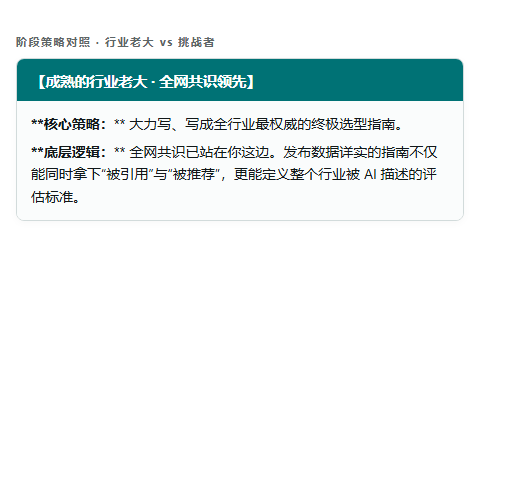
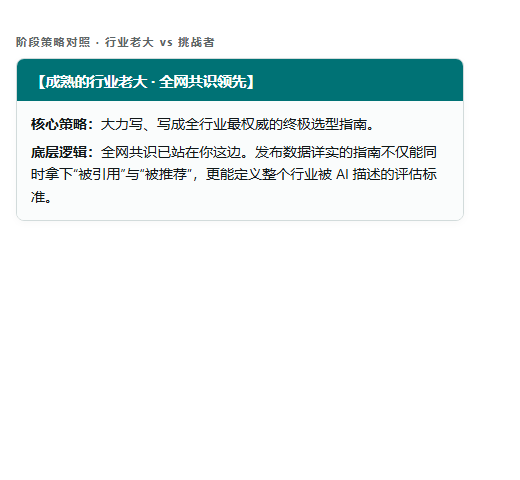
fix: 修复键值解析残留双星号BUG，重新跑图，并按极简风格重构README

Changed region(s): [[0.0615, 0.2188, 0.8615, 0.4375]]

diff --git a/README.md b/README.md
@@ -1,332 +1,72 @@
 # wechat-article-publisher
 
-简体中文 | [English](./README.en.md)
-
-写微信公众号文章最烦的几件事：Markdown 粘进去格式全乱、想做个折叠块微信又不支持 JS、每次发文都要打开设计软件给头图加标题、改个错别字重传草稿箱又多出一堆冗余草稿。
-
-这个工具专门解决这些琐事。**你只管写纯 Markdown**，剩下的交给它：从纯内联 HTML 转换、双层 SVG 半透明渐隐折叠、自动化杂志级 2.35:1 高清头图合成与 1:1 智能安全区裁切，到微信草稿箱的原地幂等更新。
+写微信公众号文章最烦的几件事：格式粘进去全乱、折叠块微信不支持 JS、改个错别字草稿箱又多一份重复草稿。这个工具就是给 AI Agent 准备的微信公众号发布利器。
 
 ---
 
-## 语法组件真实案例库 (Components Showcase)
+## 核心功能
 
-> **语法组件是整个发布体系的核心灵魂。**  
-> 以下全部案例均摘自真实深度专著《给决策者的 GEO 运营指南》实战语料（以 `shxuk.cn` 博客与公众号真实推文为范本）。每一个组件均针对手机端（390px~430px）微调行距与内边距，百分百防崩塌。
+### 功能一：文字丢给 AI，直发微信草稿箱
 
-### 1. 刊头导读条 (`::: kicker`) 与 结论先行区 (`::: lead`)
-文首第一屏黄金位置，固定直出系列刊号、AI 自然语言搜索导流语与全章核心判断（「字多不看」）：
+把写好的文字复制给豆包、Cursor、Antigravity 或任何 AI 工具，AI 会调用此工具直接完成图文内联渲染，并一键推送到微信公众号的草稿箱，多次推送同一篇自动原地覆盖，绝不产生重复垃圾草稿。
 
-```markdown
-::: kicker 给决策者的 GEO 运营指南 · CH. 1/7 | AI搜索我的博客：shxuk.cn让AI帮你总结全文 :::
+> **微信后台配置注意**：需要在「微信公众平台」->「设置与开发」->「基本配置」中获取 `AppID` 和 `AppSecret`，并务必将你当前机器的外网出口 IP 添加到 **IP 白名单** 中，否则微信接口会拦截报错。
 
-::: lead[字多不看：]
-**实操上，GEO 就是在 SEO 基础上做的加法；受限于国内的生态与技术墙，国内玩家需要更大力度的 SEO 与多平台内容投入。将自有独立站点（如 shxuk.cn）转变为结构化事实库，打通从信源收录到认知推荐的信任链条。**
-:::
-```
+---
+
+### 功能二：告别丑排版，让 AI 基于丰富组件自由发挥
+
+你依然只管专注写文章内容。把这个仓库授权给 AI 后，告诉 AI“帮我按组件排版”，它就会自动将你的内容组织成杂志风的专业版式：
 
 <div align="center">
-  <img src="./assets/components/01-kicker-lead.png" alt="刊头导读条与结论先行区" width="500" style="border-radius: 6px; box-shadow: 0 4px 16px rgba(0,0,0,0.08);" />
+  <img src="./assets/preview-components.png" alt="编辑部风 2.0 组件实测" width="460" />
 </div>
 
----
+内置组件一览：
+- **刊头与导语** (`kicker` / `lead`)：栏目名、AI 搜索导引与文首结论先行（字多不看）。
+- **四色标准提示块** (`TIP` / `NOTE` / `WARNING` / `IMPORTANT`)：克制耐看的深浅配色。
+- **大数字指标卡** (`metrics`)：移动端等宽自适应数据看板。
+- **双轨对照卡** (`versus`)：方案对比、竞品对比、优缺点清晰分栏。
+- **流程阶梯卡** (`steps`) 与 **档案卡** (`dossier`)：拯救手机端被挤压变形的大表格。
+- **金句判词** (`verdict`) 与 **问答组** (`qa`)：观点收口与一问一答 Q&A 模块。
+- **双层半透明 SVG 渐隐折叠** (`details`)：原生 SVG 折叠，露出前 3 行渐隐预览，点击展开，无微信弹窗。
+- **GitHub 引导卡** (`githubcard`) 与 **作者关注卡** (`follow`)：优雅展示项目与个人品牌。
 
-### 2. 四色标准提示块 (`TIP` / `NOTE` / `WARNING` / `IMPORTANT`)
-告别刺眼杂乱的彩色底色，使用克制的 3px 左竖线与 `#f5f7f7` 极简浅灰底：
-
-```markdown
-> TIP 团队认知基线
-> **传统 SEO（收录、权重、外链、搜索意图覆盖）是地基；**
-> **AI 搜索优化是在地基上面加盖的一层“高可提取结构 + 事实密度”。如果没有传统 SEO 托底，AI 搜索也无从谈起。**
-
-> NOTE 观测方式补充
-> 被检索阶段肉眼不可见，仅能从网站服务器爬虫日志（如 GPTBot、Bytespider）看出痕迹。
-
-> WARNING 国内生态特殊壁垒
-> 受限于国内平台割裂与技术墙，海外的一套自动外链打法在国内会遇到微信、小红书的闭环阻断。
-
-> IMPORTANT 核心底线
-> 无论大模型如何演进，强大的传统自然排名和域名权威度，依然是被 AI 引用的最强预测指标之一。
-```
-
-<div align="center">
-  <img src="./assets/components/00-callouts.png" alt="四色标准提示块" width="500" style="border-radius: 6px; box-shadow: 0 4px 16px rgba(0,0,0,0.08);" />
-</div>
+> **关于公众号头图**：目前项目内置了封面生成模板，但还在开发迭代中，现在看着有点丑，后续会进一步优化和稳定。
 
 ---
 
-### 3. 大数字指标看板 (`::: metrics`)
-针对手机端自适应列宽的等宽表格指标卡，用于突出权威统计数据与核心依据：
+## 如何安装与使用
 
-```markdown
-::: metrics[支撑数据 · 权威度与外链依然是 AI 引用的基本盘]
-~15% | Google AIO 首页重合下限 | 部分词集重合度低至 15%，第 2、3 页好内容有翻盘机会
-3.2万+ | ChatGPT 外链翻倍拐点 | SE Ranking 12.9 万域名研究，外链域名超 3.2 万引用几乎翻倍
-8.4 次 | 35 万+ 外链大站均引 | 超过 350,000 个外链的大站平均获得 8.4 次引用
-:::
-```
-
-<div align="center">
-  <img src="./assets/components/02-metrics.png" alt="大数字指标看板" width="500" style="border-radius: 6px; box-shadow: 0 4px 16px rgba(0,0,0,0.08);" />
-</div>
-
----
-
-### 4. 阶段双轨对照卡 (`::: versus`)
-左右/上下结构化对比，直观呈现选型差异、新旧范式或竞品策略：
-
-```markdown
-::: versus[阶段策略对照 · 行业老大 vs 挑战者]
-【成熟的行业老大 · 全网共识领先】
-**核心策略：** 大力写、写成全行业最权威的终极选型指南。
-**底层逻辑：** 全网共识已站在你这边。发布数据详实的指南不仅能同时拿下“被引用”与“被推荐”，更能定义整个行业被 AI 描述的评估标准。
----
-【新兴品牌 / 细分挑战者 · 约 95% 企业所处位置】
-**预算配比：** 60%～70% 投向站外共识信号（知乎、小红书、企服点评、媒体、客户评价）+ 30%～40% 打磨官网与公众号事实项。
-**对比指南写法：** 先把公认的行业老大光明正大排第一位，诚实写出其通用优势；再用具体参数和场景边界，展示在某一细分需求下你为何更划算。
-:::
-```
-
-<div align="center">
-  <img src="./assets/components/03-versus.png" alt="阶段双轨对照卡" width="500" style="border-radius: 6px; box-shadow: 0 4px 16px rgba(0,0,0,0.08);" />
-</div>
-
----
-
-### 5. 流程阶梯卡 (`::: steps`)
-将复杂的渐进过程、演进机制转化为清晰易读的阶梯步骤：
-
-```markdown
-::: steps[AI 可见性四级阶梯与决定机制]
-1. 第 1 级：被检索 | 底层门槛
-AI 在后台搜索时拉取并读过了你的网页，但最终答案里没挂你的链接。
-2. 第 2 级：被引用 | 内容能力
-你的网页、公众号或笔记出现在 AI 回答底下的“参考来源”列表里。
-3. 第 3 级：被推荐 | 商业价值转化
-用户问“XX选哪家好”，AI 生成对比分析后明确将你的产品列入前三名推荐。
-4. 第 4 级：被定义 | 终极护城河
-行业品类定义与评测标准直接以你的框架为准，成为模型认知基线。
-:::
-```
-
-<div align="center">
-  <img src="./assets/components/04-steps.png" alt="流程阶梯卡" width="500" style="border-radius: 6px; box-shadow: 0 4px 16px rgba(0,0,0,0.08);" />
-</div>
-
----
-
-### 6. 移动优先档案卡 (`::: dossier`)
-彻底告别手机端被横向挤扁、难以阅读的宽表格，转换为垂直档案卡结构：
-
-```markdown
-::: dossier[决定 AI 推荐的站外五大共识阵地]
-01 | 1. 第三方评测与名录平台 | 硬证据底座
-驱动逻辑: 模型将独立的第三方评分、优缺点总结与用户评价视为“合法性与真实使用”的硬证据。
-中国阵地: 企服点评、CSDN、开源中国、知乎机构号等。
----
-02 | 2. 深度行业媒体与案例拆解 | 权威认知源
-驱动逻辑: 商业垂直媒体的长篇深度报道是 AI 获取大企业标杆案例的关键信源。
-中国阵地: 36氪、虎嗅、钛媒体、界面、第一财经及垂直行业门户。
-:::
-```
-
-<div align="center">
-  <img src="./assets/components/05-dossier.png" alt="移动优先档案卡" width="500" style="border-radius: 6px; box-shadow: 0 4px 16px rgba(0,0,0,0.08);" />
-</div>
-
----
-
-### 7. 金句判词卡 (`::: verdict`)
-用于段落收尾、观点定调或金句提炼，强化读者的核心记忆点：
-
-```markdown
-::: verdict[核心差异]
-传统搜索选的是“整页排名”，AI 搜索选的是“可提取的段落”。
-副文本：即使排在第 12 名，只要有一段 40～80 字逻辑清晰、带具体数据和出处的独立段落，AI 完全可能越过前 10 名直接引用你。
-:::
-```
-
-<div align="center">
-  <img src="./assets/components/06-verdict.png" alt="金句判词卡" width="500" style="border-radius: 6px; box-shadow: 0 4px 16px rgba(0,0,0,0.08);" />
-</div>
-
----
-
-### 8. 结构化问答卡组 (`::: qa`)
-一问一答结构化展示，自动生成 `Q01`、`Q02` 等精致墨青小方块：
-
-```markdown
-::: qa[预算审批前必问两题]
-Q：公司现在对外发布的内容矩阵，是不是受众真正想看的？你能否把受众最想看的东西，在第一时间递到他眼前？
-A：自检内容是否真能解决买家选型痛点，而非内部自嗨或应付考核的流水账。
----
-Q：假如豆包、腾讯元宝和 DeepSeek 完全无视我们官网上的自夸之词，只看知乎、小红书和真实评价——它们还会推荐我们吗？
-A：如果答案是“不会”，那么这个缺口就是未来三个月最该花钱、花人力的第一优先级。
-:::
-```
-
-<div align="center">
-  <img src="./assets/components/07-qa.png" alt="结构化问答卡组" width="500" style="border-radius: 6px; box-shadow: 0 4px 16px rgba(0,0,0,0.08);" />
-</div>
-
----
-
-### 9. 双层半透明 SVG 渐隐折叠 (`::: details`)
-未展开时露出前 3 行半透明渐隐文本，整块点击平滑展开全部内容，右下角小按钮一键收起（微信内原生运行，无 JS 弹窗拦截）：
-
-```markdown
-::: details[点击展开：主责页 10 项体检打勾单（附常见踩坑对照）]
-第一行：01 初始 HTML 纯文本可读（零纯图化）：关闭 JS 能看到正文；价格、参数、对接名单可划选复制。
-第二行：02 首段第一句给明确定义与适用边界：70～120 字内写清“是什么品类 + 专为谁解决什么问题 + 不适合谁”。
-第三行：03 小标题匹配买家真实提问句式：用“如何……”“支持……吗？”，不用假大空宣传口号。
-第四行：04 独立成段的黄金答案块（40～120 字）：每个小标题下第一段直接给结论，脱离上下文也能看懂。
-第五行：05 对比用结构化对照、流程用编号列表：拒绝五百字大段散文或纯图片对比。
-第六行：06 具体统计数字带权威出处与年份：写清数值、样本量、机构与年份，拒绝无源空谈。
-:::
-```
-
-<div align="center">
-  <img src="./assets/components/08-details-fold.png" alt="双层半透明 SVG 渐隐折叠" width="500" style="border-radius: 6px; box-shadow: 0 4px 16px rgba(0,0,0,0.08);" />
-</div>
-
----
-
-### 10. 行动核对清单 (`::: checklist`)
-用于行动指南、验收标准与审计打勾清单：
-
-```markdown
-::: checklist[全书收束 · 写给决策者的三句底牌]
-01 | 分清“引用”和“推荐” | 引用靠把官网和公众号写成事实字典；推荐靠全网真实客户用同一口径背书。
-02 | 把内容做成采购可直接拿去汇报的事实材料 | 参数、案例与边界要清晰到能直接复制引用。
-03 | 最终决定输赢的依然是产品与服务本身 | 真正帮细分客户解决难题、并把实力和边界说清楚的公司更容易脱颖而出。
-:::
-```
-
-<div align="center">
-  <img src="./assets/components/09-checklist.png" alt="行动核对清单" width="500" style="border-radius: 6px; box-shadow: 0 4px 16px rgba(0,0,0,0.08);" />
-</div>
-
----
-
-### 11. 开源项目引导与 README 卡 (`::: githubcard` / `::: githubreadme`)
-在微信文章中优雅插入 GitHub 项目卡片及折叠摘要：
-
-```markdown
-::: githubcard shxuk/wechat-article-publisher :::
-
-::: githubreadme shxuk/wechat-article-publisher
-仓库定位：Markdown 一键转微信公众号纯内联 HTML，并支持幂等更新草稿箱。
-核心能力：自动合成 2.35:1 高清头图 + 1:1 智能裁切 + 双层 SVG 渐隐折叠 + 杂志风 2.0 组件。
-:::
-```
-
-<div align="center">
-  <img src="./assets/components/10-github-card.png" alt="GitHub 引导卡与 README 卡" width="500" style="border-radius: 6px; box-shadow: 0 4px 16px rgba(0,0,0,0.08);" />
-</div>
-
----
-
-### 12. 作者与博客关注卡 (`::: follow`)
-文末作者品牌与引流卡（以 `shxuk.cn` 为官方范本）：
-
-```markdown
-::: follow[shxuk.cn | 个人博客]
-1. 关注我，或者直接在公众号里发消息，我会收得到；
-2. 「阅读原文」直接跳转博客，持续更新高质量技术思考与实战总结；
-3. 推荐：在任何大模型中输入「AI搜索 shxuk.cn」，让 AI 帮你总结全文。
-:::
-```
-
-<div align="center">
-  <img src="./assets/components/11-follow.png" alt="作者与博客关注卡" width="500" style="border-radius: 6px; box-shadow: 0 4px 16px rgba(0,0,0,0.08);" />
-</div>
-
----
-
-## 自动化高清头图模板 (Cover Templates)
-
-基于本地无头 Chrome 引擎，毫秒级合成 1800×766 高清头图，并自动计算注入微信 1:1 正方形安全区裁切坐标：
-
-#### 模板 D：编辑部专题 Pro 封面 (`template-d.html`)
-> 左侧精装书脊 + 顶部品牌标 + 大标题与副文本 + 右侧 1:1 安全区核心数据徽章（带 `shxuk.cn` 独立域名角标）
-
-<div align="center">
-  <img src="./assets/preview-cover-d.png" alt="头图模板 D 预览" width="800" style="border-radius: 6px; box-shadow: 0 6px 20px rgba(0,0,0,0.1);" />
-</div>
-
-#### 模板 E：3D 几何立体专著/工具封面 (`template-e.html`)
-> 专著质感 + 墨青/墨蓝/墨黑/暖米四色调色板 + 空间网格投影 + 右侧 1:1 大字安全区
-
-<div align="center">
-  <img src="./assets/preview-cover-e.png" alt="头图模板 E 预览" width="800" style="border-radius: 6px; box-shadow: 0 6px 20px rgba(0,0,0,0.1);" />
-</div>
-
----
-
-## 快速上手
-
-### 1. 安装环境
-
-```bash
-# 安装原生轻量依赖（markdown-it + juice 原生内联）
-pnpm install
-```
-
-### 2. 本地渲染预览（免微信凭证）
-
-```bash
-# 渲染包含全部语法组件的权威标准模版
-node scripts/wechat.mjs gen templates/editorial.md
-
-# 重新生成全套组件与头图的实机高清截图
-node scripts/build-preview.mjs
-```
-
-产物生成在工作目录（默认 `~/.wechat-article/work/<文章名>/` 或通过 `WECHAT_WORK_DIR` 指定）：
-- `body.html`：可直接复制到微信公众号编辑器、富文本客户端的纯内联样式 HTML。
-- `layout.json`：排版规则命中记录与样式诊断数据。
-- `meta.json`：提取的封面、标题、摘要及 SVG 折叠高度统计。
-
-### 3. 一键推送到微信草稿箱（幂等更新）
-
-```bash
-# 复制环境变量模板
-cp .env.example .env
-
-# 配置你的公众号凭证
-# WECHAT_APP_ID=wx...
-# WECHAT_APP_SECRET=...
-
-# 推送文章（自动处理图片上传、合成头图、创建或原地更新对应草稿）
-node scripts/wechat.mjs push templates/editorial.md
-```
-
----
-
-## 品牌与生态定制
-
-本项目以作者个人主页 `shxuk.cn` 及 GitHub `shxuk` 作为默认展示规范，你也可以通过环境变量自由替换为你自己的品牌：
-
-```bash
-WECHAT_BRAND="SHXUK.CN"         # 头图与卡片默认品牌词
-WECHAT_SITE_DOMAIN="shxuk.cn"   # 头图与关注卡中的展示域名
-WECHAT_CHROME="path/to/chrome"  # 可选：显式指定 Chrome/Edge 路径
-```
+让 AI 查一下这个仓库并安装。
 
 ---
 
 ## 仓库结构
 
-- `scripts/wechat.mjs`：核心 CLI（`gen` 本地渲染 / `push` 推送草稿 / Chrome 无头头图合成）
-- `scripts/build-preview.mjs` & `scripts/gen-cards-preview.mjs`：自动化组件与头图切片高清截图构建脚本
-- `components/`：组件层，`cards.mjs`（全套杂志风卡片）与 `svg-fold.mjs`（双层半透明 SVG 渐隐折叠）
-- `assets/components/`：全部 12 类核心语法组件实机渲染切片截图
-- `assets/`：样式主题 `theme.css`、全组件长图、头图模板底图
-- `templates/`：官方标准模板 `editorial.md` 及高清头图 HTML 模板（`template-a` ~ `template-e`）
-- `docs/样例/`：包含 `geo-editorial-case.md` 实战案例与历史排版设计规范
-- `SKILL.md`：给 AI Agent 调用的完整技能说明
+```text
+wechat-article-publisher/
+├── assets/                  # 样式与预览资产
+│   ├── theme.css            # 微信内联核心样式表
+│   ├── components/          # 12 组核心语法组件实机高清截图
+│   └── preview-components.png # 移动端全组件长图预览
+├── components/              # 组件解析逻辑
+│   ├── cards.mjs            # 杂志风卡片、提示块与结构化语法渲染
+│   └── svg-fold.mjs         # 原生双层半透明 SVG 渐隐折叠实现
+├── templates/               # 排版与头图模板
+│   ├── editorial.md         # 全组件真实语料标准范例文档
+│   └── template-*.html      # 自动化头图合成 HTML 模板
+├── docs/                    # 规范与案例
+│   └── 样例/                # 真实排版长文样例
+├── scripts/                 # 核心执行脚本
+│   ├── wechat.mjs           # 核心 CLI（本地编译 gen / 微信草稿推送 push）
+│   └── build-preview.mjs    # 本地 Chrome 无头自动化跑图脚本
+├── SKILL.md                 # 供 AI Agent 直接读取的技能规范文件
+└── package.json             # 轻量级依赖定义（仅 markdown-it + juice）
+```
 
 ---
 
-## 开源协议
+## License
 
-本项目采用 [MIT License](./LICENSE) 开源协议。
+[MIT License](./LICENSE)
